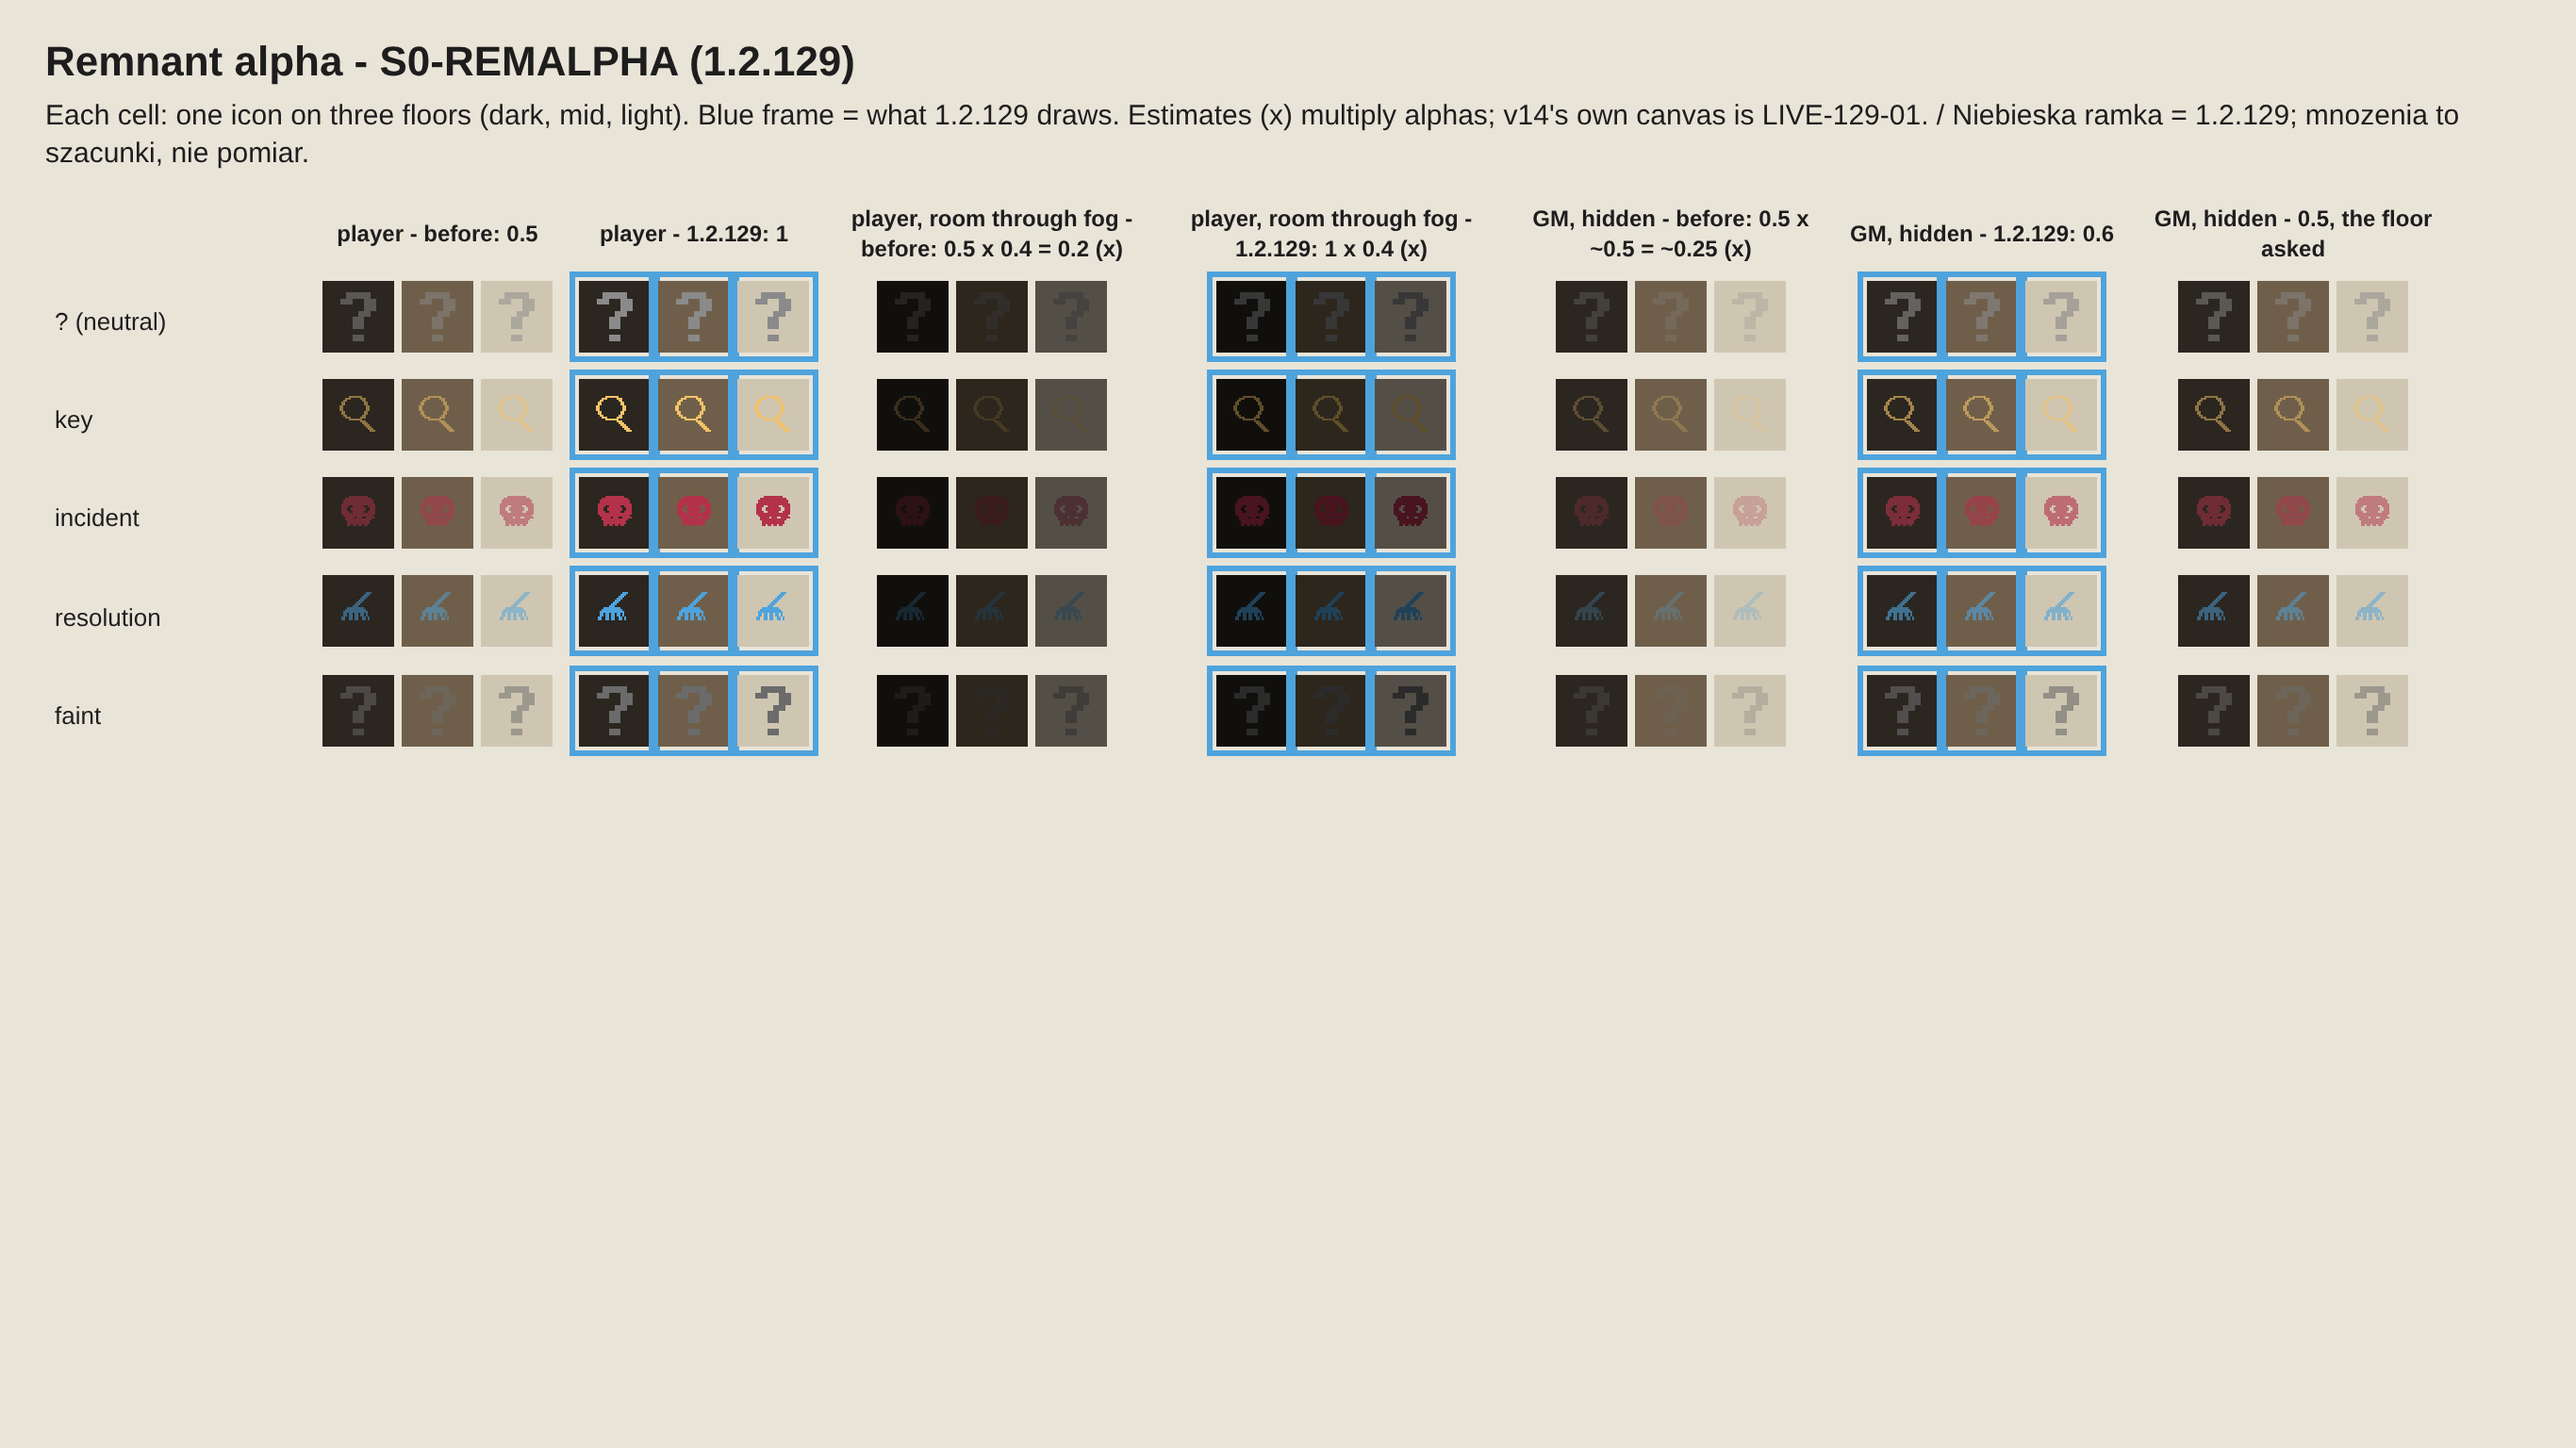
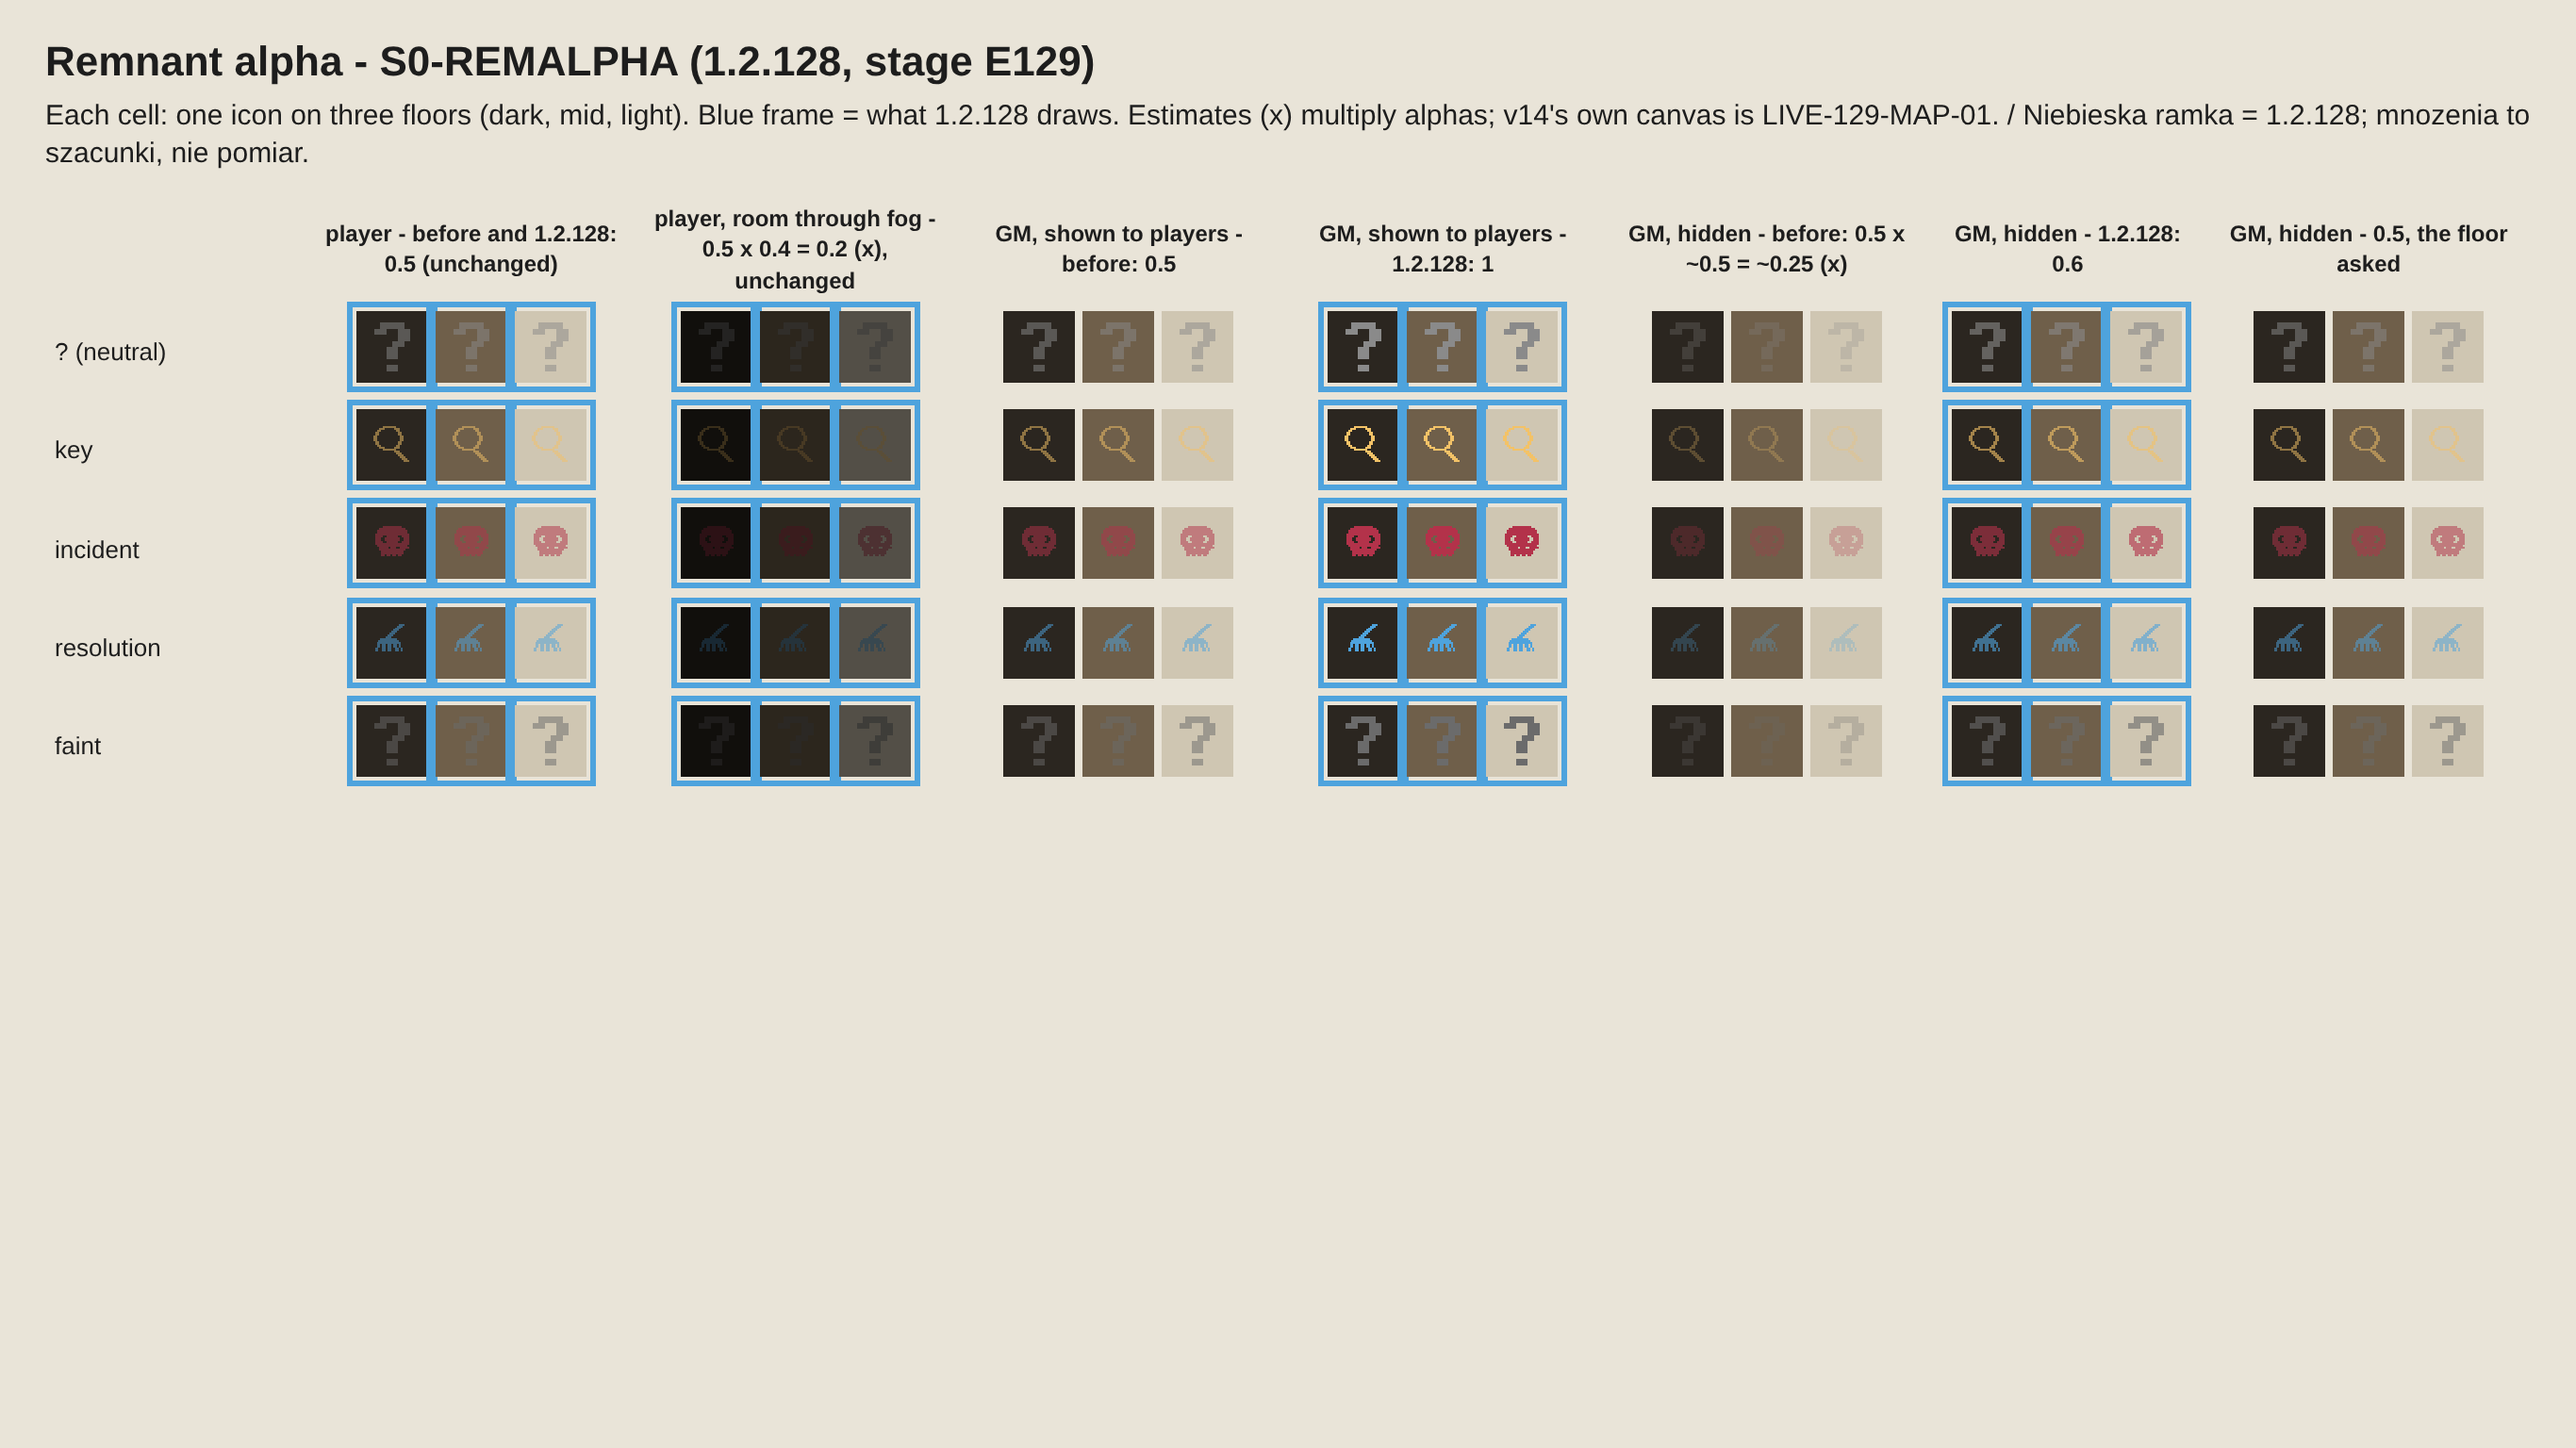
E129 S0-REMALPHA: players keep 0.5, the GM's map is clear [skip ci]
The owner's answers (23.11.2026): the half-seen Remnants were on the GM's
screen, Neutral ones; and "Tak" to keeping players' screens at 0.5, the
map's "people in a room" design. REMNANT_ALPHA.player is 0.5 again;
gmShown 1 and gmHidden 0.6 stay. R8870 holds 0.5 for a player and starts
the stand-in mesh at 0.3, so a dress that sets nothing shows. The
comparison sheet's columns are redone for the player (unchanged) and
the GM (1 shown, 0.6 hidden). LIVE items renumbered LIVE-129-MAP-NN.

Claude-Session: https://claude.ai/code/session_01QsWhUbiGMjnJomVPo94Rt7

diff --git a/docs/dev/owner129/map/remalpha-sheet.html b/docs/dev/owner129/map/remalpha-sheet.html
@@ -13,18 +13,19 @@ td.k{text-align:left;font-size:13px;width:130px}
 .veil{position:absolute;inset:0;background:#000;opacity:.6}
 .new{outline:3px solid #4ea3dd;outline-offset:2px}
 </style></head><body>
-<h1>Remnant alpha - S0-REMALPHA (1.2.129)</h1>
+<h1>Remnant alpha - S0-REMALPHA (1.2.128, stage E129)</h1>
 <p id="sub"></p><table id="t"></table>
 <script>
 const q=new URLSearchParams(location.search); if(q.get("theme")==="light") document.body.classList.add("light");
 document.body.classList.add(q.get("ui")==="stained"?"drpg-theme-stained-glass":"drpg-theme-monokuma-legacy");
 const S=+(q.get("s")||64); document.documentElement.style.setProperty("--s",S+"px");
-document.getElementById("sub").textContent="Each cell: one icon on three floors (dark, mid, light). Blue frame = what 1.2.129 draws. Estimates (x) multiply alphas; v14's own canvas is LIVE-129-01. / Niebieska ramka = 1.2.129; mnozenia to szacunki, nie pomiar.";
+document.getElementById("sub").textContent="Each cell: one icon on three floors (dark, mid, light). Blue frame = what 1.2.128 draws. Estimates (x) multiply alphas; v14's own canvas is LIVE-129-MAP-01. / Niebieska ramka = 1.2.128; mnozenia to szacunki, nie pomiar.";
 const kinds=[["unknown","#8a8a8a","? (neutral)"],["search","#f3c267","key"],["incident","#b3324a","incident"],["resolution","#4ea3dd","resolution"],["unknown","#6b6b6b","faint"]];
 const cols=[
- ["player - before: 0.5",0.5,false,false],["player - 1.2.129: 1",1,false,true],
- ["player, room through fog - before: 0.5 x 0.4 = 0.2 (x)",0.5,true,false],["player, room through fog - 1.2.129: 1 x 0.4 (x)",1,true,true],
- ["GM, hidden - before: 0.5 x ~0.5 = ~0.25 (x)",0.25,false,false],["GM, hidden - 1.2.129: 0.6",0.6,false,true],["GM, hidden - 0.5, the floor asked",0.5,false,false]];
+ ["player - before and 1.2.128: 0.5 (unchanged)",0.5,false,true],
+ ["player, room through fog - 0.5 x 0.4 = 0.2 (x), unchanged",0.5,true,true],
+ ["GM, shown to players - before: 0.5",0.5,false,false],["GM, shown to players - 1.2.128: 1",1,false,true],
+ ["GM, hidden - before: 0.5 x ~0.5 = ~0.25 (x)",0.25,false,false],["GM, hidden - 1.2.128: 0.6",0.6,false,true],["GM, hidden - 0.5, the floor asked",0.5,false,false]];
 const t=document.getElementById("t");
 t.innerHTML="<tr><th></th>"+cols.map(c=>`<th>${c[0]}</th>`).join("")+"</tr>"+kinds.map(([f,tint,name])=>"<tr><td class=k>"+name+"</td>"+cols.map(([_,a,veil,isNew])=>"<td>"+["d","m","l"].map(fl=>`<span class="cell floor-${fl}${isNew?" new":""}"><span class=ico style="--u:url(/icons/remnant-${f}.svg);--t:${tint};opacity:${a}"></span>${veil?"<span class=veil></span>":""}</span>`).join("")+"</td>").join("")+"</tr>").join("");
 </script></body></html>

diff --git a/docs/dev/R-REGISTRY.md b/docs/dev/R-REGISTRY.md
@@ -1981,7 +1981,7 @@ Next free: R8871. Reserved and unused: none.
 | R8731 | 1 | E127 | Season setup's Reset the season asks who may reset at the press, before the window closes: a GM who is not the primary is told the reset is the primary's and the window is kept (E128; scripts/gm-campaign.mjs `mayResetSeasonHere`, season-setup.mjs `openSeasonSetup`; OWNER-128-SECOND-GM, line CORE's inventory row 7) |
 | R8732 | 1 | E127 | a Finish of a stopped verdict runs on its runner, is asked of the primary by a second full GM when the primary runs it, and is refused with whom to ask otherwise (E128; scripts/verdict.mjs `finishRoute`, `finishVerdict`; OWNER-128-SECOND-GM, line CORE's inventory row 6) |
 | R8733 | 1 | E127 | a second GM's own opening roll, sent to the primary, reads as made on this browser: the tracker's Ask again says the roll is thrown here, not that nothing was sent (E128; scripts/murder-rules.mjs `throwOpeningRoll`, `rollOpening`, murder-ui.mjs `reaskOpening`; OWNER-128-SECOND-GM fix 2) |
-| R8870 | 1 | E127 | a Remnant a player is shown is drawn whole on that player's screen, and on a GM's whole when players see it and at REMNANT_ALPHA.gmHidden when they do not, whatever the document's alpha (1.2.129 line MAP, E129; scripts/visibility.mjs `remnantAlpha`, `dressRemnant`, `applyToToken`; config.mjs `REMNANT_ALPHA`; remnants.mjs `placeRemnant`; the owner's S0-REMALPHA) |
+| R8870 | 1 | E127 | a Remnant is drawn at REMNANT_ALPHA on each browser, whatever the document's alpha: on a player's at 0.5, on a GM's whole when players see it and at gmHidden (at least 0.5, under 1) when they do not (1.2.129 line MAP, E129; scripts/visibility.mjs `remnantAlpha`, `dressRemnant`, `applyToToken`; config.mjs `REMNANT_ALPHA`; remnants.mjs `placeRemnant`; the owner's S0-REMALPHA) |
 
 Tier-1 tests older than 1.2.61 with no number (70, names kept):
 
